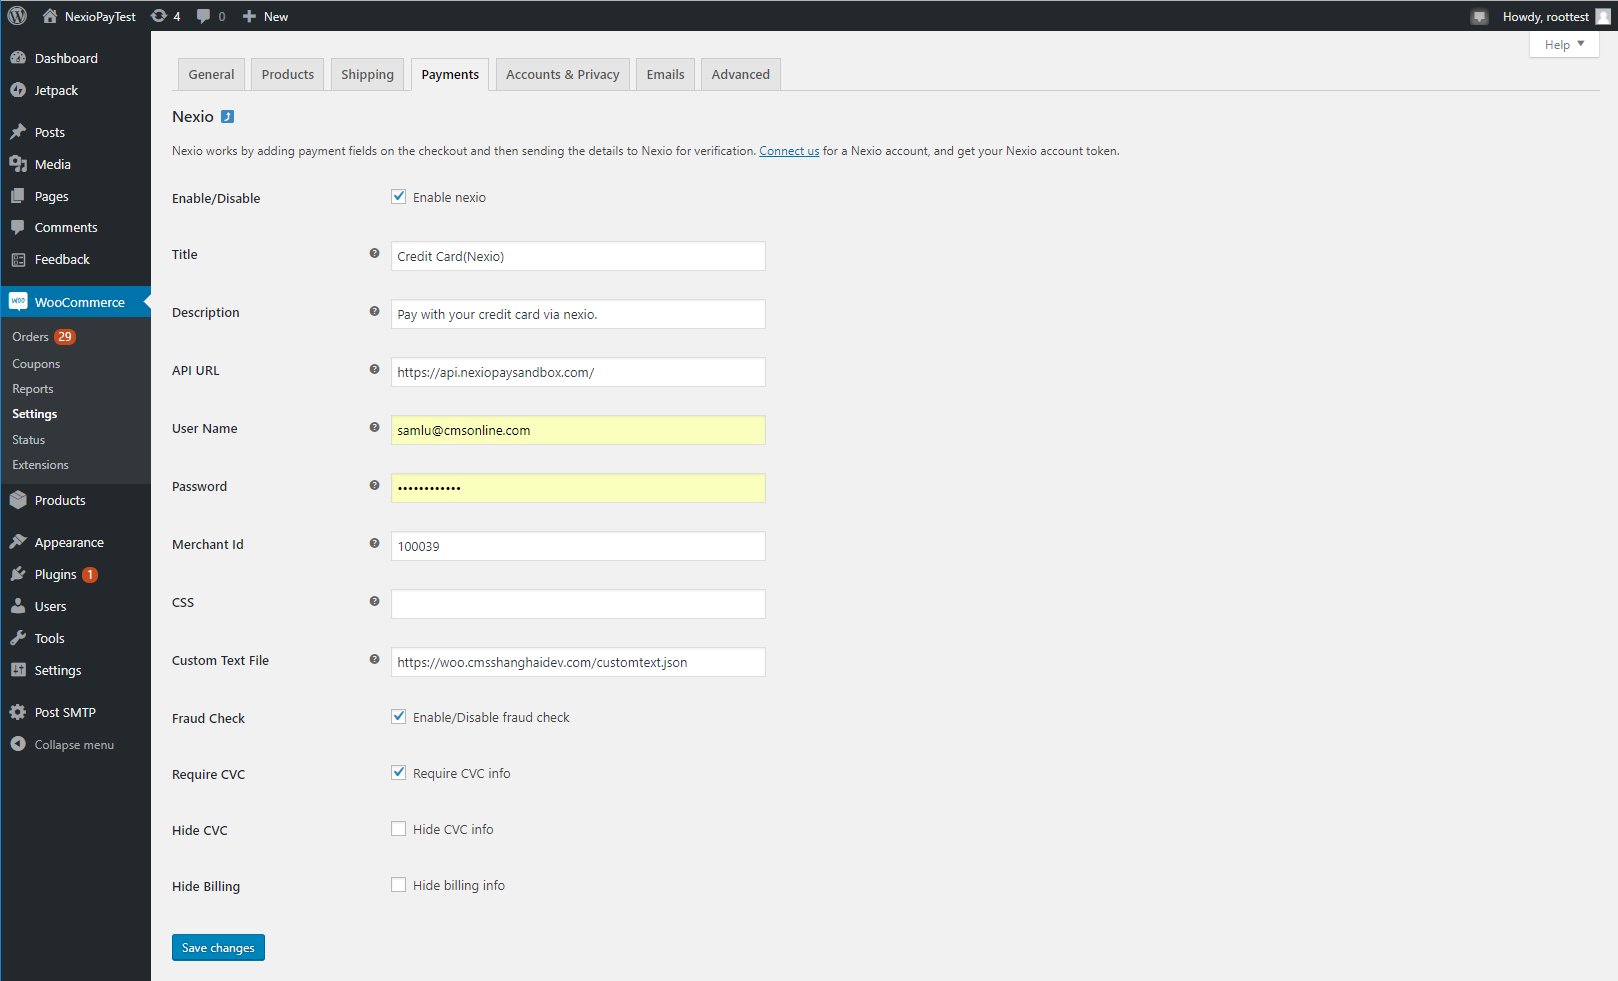
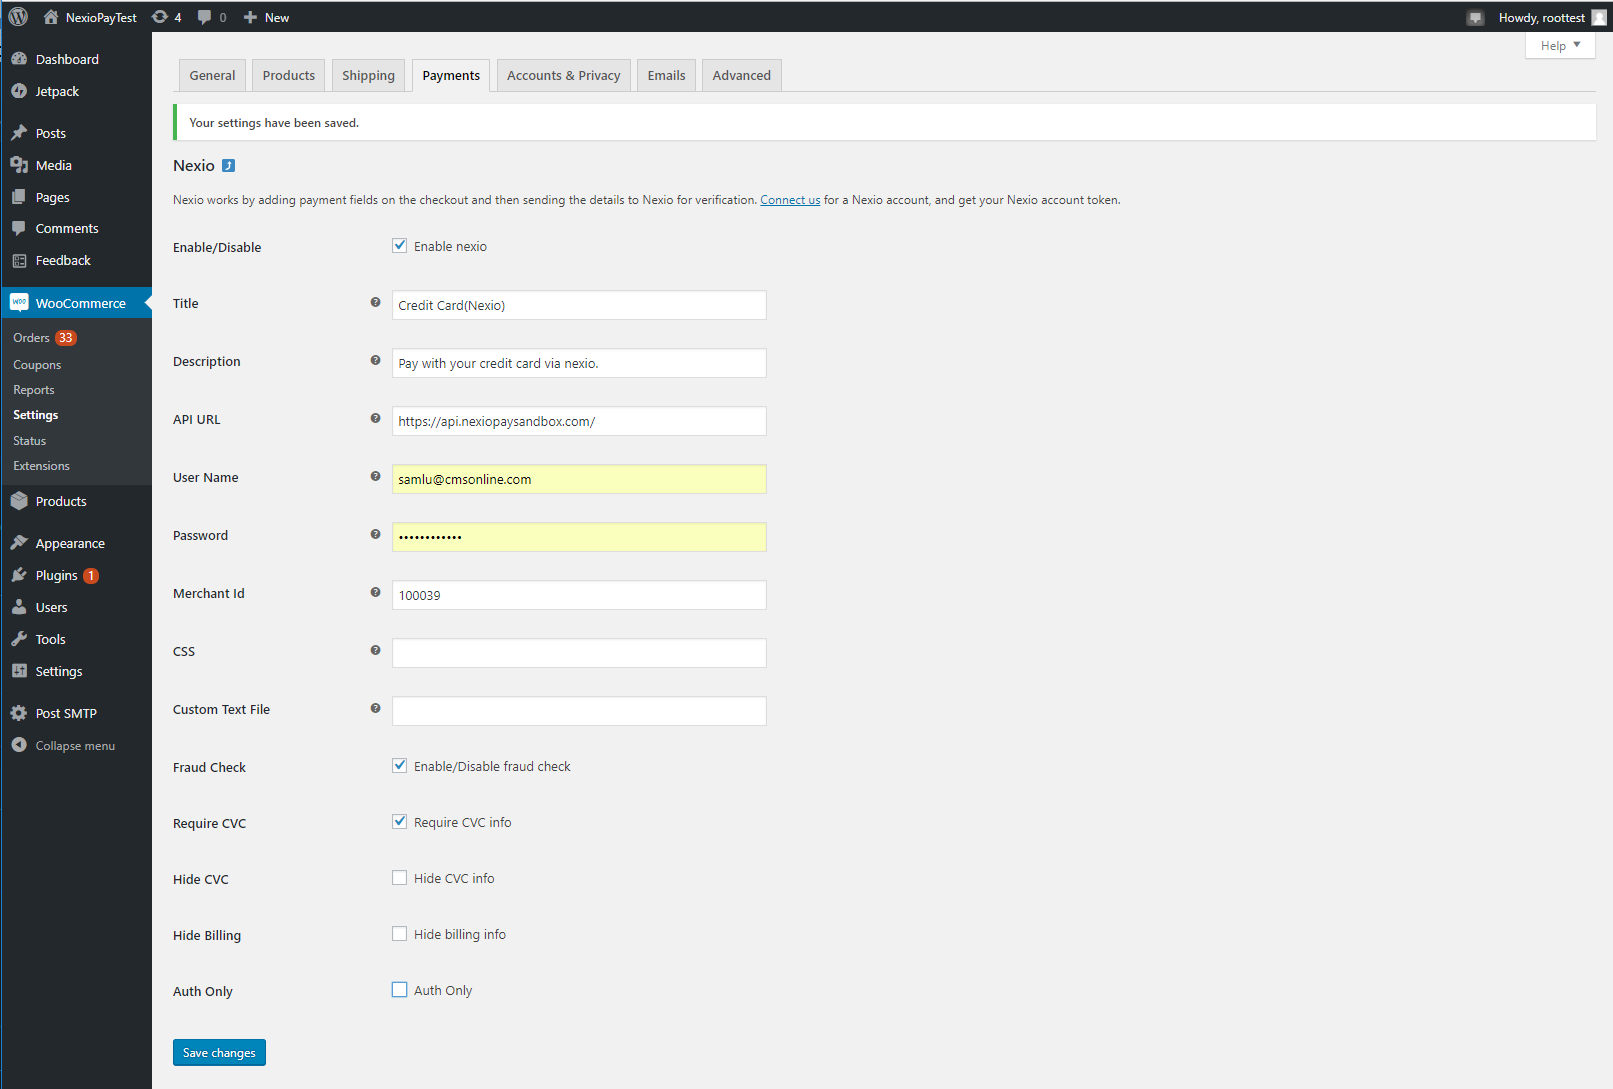
0.0.7 AuthOnly
1. Add Auth Only option into plugin settings
2. Update readme.md and instruction doc accordingly.

diff --git a/class-cms-gateway-nexio.php b/class-cms-gateway-nexio.php
@@ -81,11 +81,21 @@ class CMS_Gateway_Nexio extends WC_Payment_Gateway_CC {
 	public $hidebilling;
 	
 	/**
+	 * authonly
+	 *
+	 * @var bool
+	 */
+	public $authonly;
+
+
+	/**
 	 * shareSecret
 	 *
 	 * @var string
 	 */
 	public $shareSecret;
+
+
 
 
 	/**
@@ -118,6 +128,7 @@ class CMS_Gateway_Nexio extends WC_Payment_Gateway_CC {
 		$this->requirecvc = $this->get_option('requirecvc');
 		$this->hidecvc = $this->get_option('hidecvc');
 		$this->hidebilling = $this->get_option('hidebilling');
+		$this->authonly = $this->get_option('authonly');
 		$this->order_button_text = __( 'Continue to payment', 'cms-gateway-nexio' );
 
 		//get merchant share secret at the beginning
@@ -621,12 +632,14 @@ class CMS_Gateway_Nexio extends WC_Payment_Gateway_CC {
 
 		//5. TODO cart
 
+
 		//build the whole array
 		$request = array(
 			'data' => $data,
 			'processingOptions' => $processingOptions,
 			'uiOptions' => $uiOptions,
-			'card' => $card
+			'card' => $card,
+			'isAuthOnly' => ($this->authonly === 'yes'?true:false),
 		);
 
 		//convert to json
@@ -674,7 +687,7 @@ class CMS_Gateway_Nexio extends WC_Payment_Gateway_CC {
 		$order = wc_get_order($order_id);
 		try {
 			$data = $this->build_gettoken_json($order_id);
-			
+			error_log('one timetoken request: '.$data);
 			$basicauth = "Basic ". base64_encode($this->user_name . ":" . $this->password);
 			error_log('basic auth: '.$basicauth);
 			$ch = curl_init($this->api_url.'pay/v3/token');

diff --git a/nexio-settings.php b/nexio-settings.php
@@ -103,5 +103,12 @@ return apply_filters(
 			'description' => '',
 			'default'     => 'no',
 		),
+		'authonly'                       => array(
+			'title'       => __( 'Auth Only', 'cms-gateway-nexio' ),
+			'label'       => __( 'Auth Only', 'cms-gateway-nexio' ),
+			'type'        => 'checkbox',
+			'description' => '',
+			'default'     => 'no',
+		),
 	)
 );

diff --git a/cms-gateway-nexio.php b/cms-gateway-nexio.php
@@ -4,7 +4,7 @@
  * Description: Take credit card payments on your store using Nexio.
  * Author: Complete Merchant Solutions
  * Author URI: https://www.cmsonline.com/
- * Version: 0.0.6
+ * Version: 0.0.7
  * Requires at least: 4.4
  * Tested up to: 5.0
  * WC requires at least: 2.6

diff --git a/README.md b/README.md
@@ -45,6 +45,7 @@ Example:
     - **Require CVC**: Require CVC in Nexio form.
     - **Hide CVC**: Hide CVC.
     - **Hide Billing**: Hide billing info.
+    - **Auth Only**: Make the transaction auth only.
 9. Scroll to the bottom of the page and click ‘Save changes’.
 Example:
 ![Payment methods settings example](screenshots/paymentMethodSettings.png)
@@ -83,9 +84,9 @@ Example:
 
 ## Notes
 - Requires at least: 4.4
-- Tested up to: 0.0.6
+- Tested up to: 0.0.7
 - Requires PHP: 5.6
-- Stable tag: 0.0.6
+- Stable tag: 0.0.7
 - License: GPLv3
 
 
@@ -93,3 +94,4 @@ Example:
 * 0.0.1 - 2019-02-26
 * 0.0.5 - 2019-04-03
 * 0.0.6 - 2019-04-04
+* 0.0.7 - 2019-04-05
